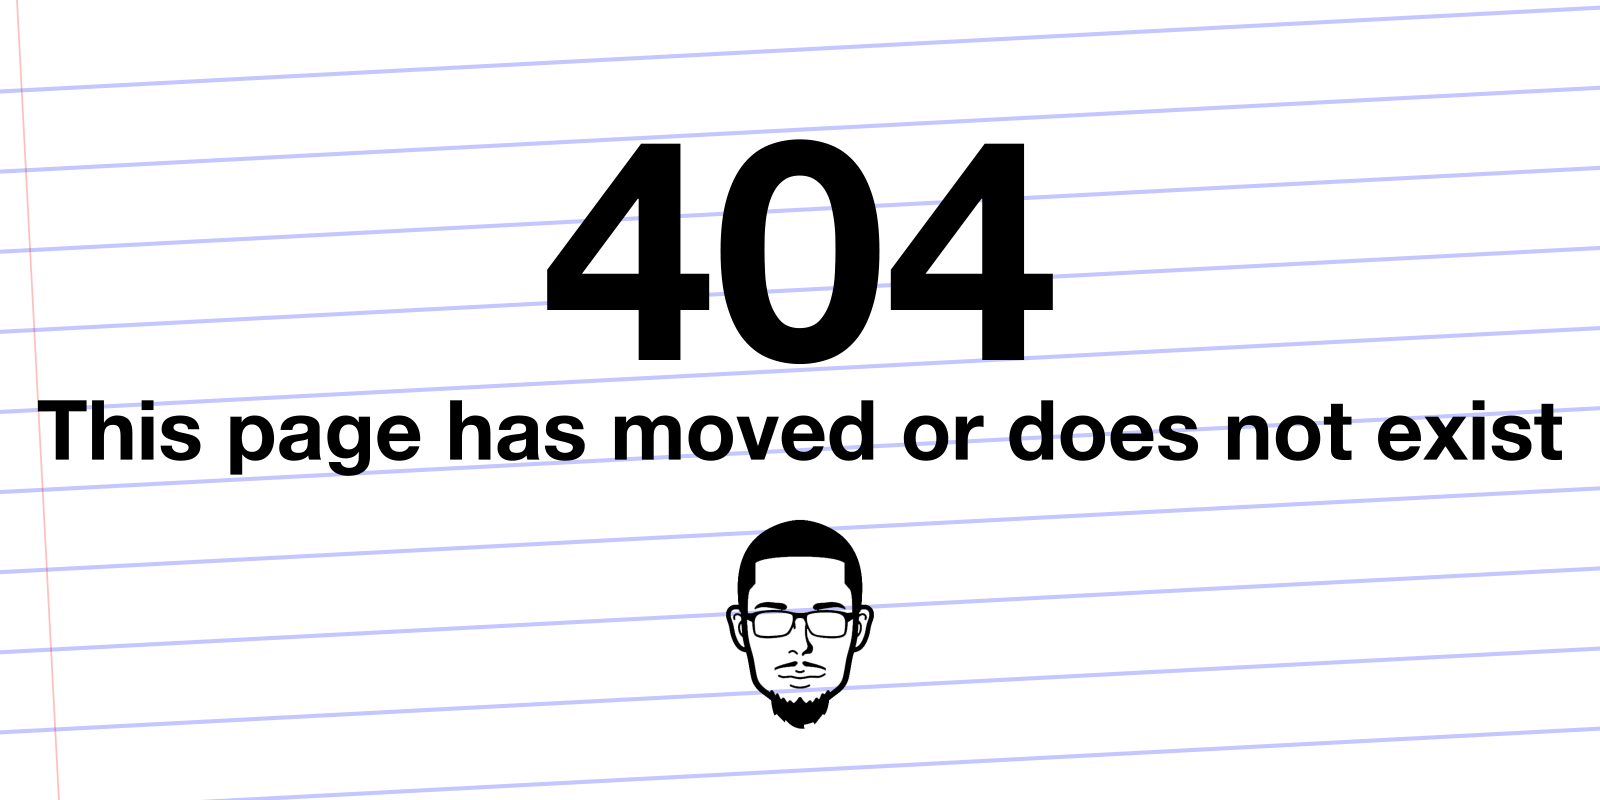
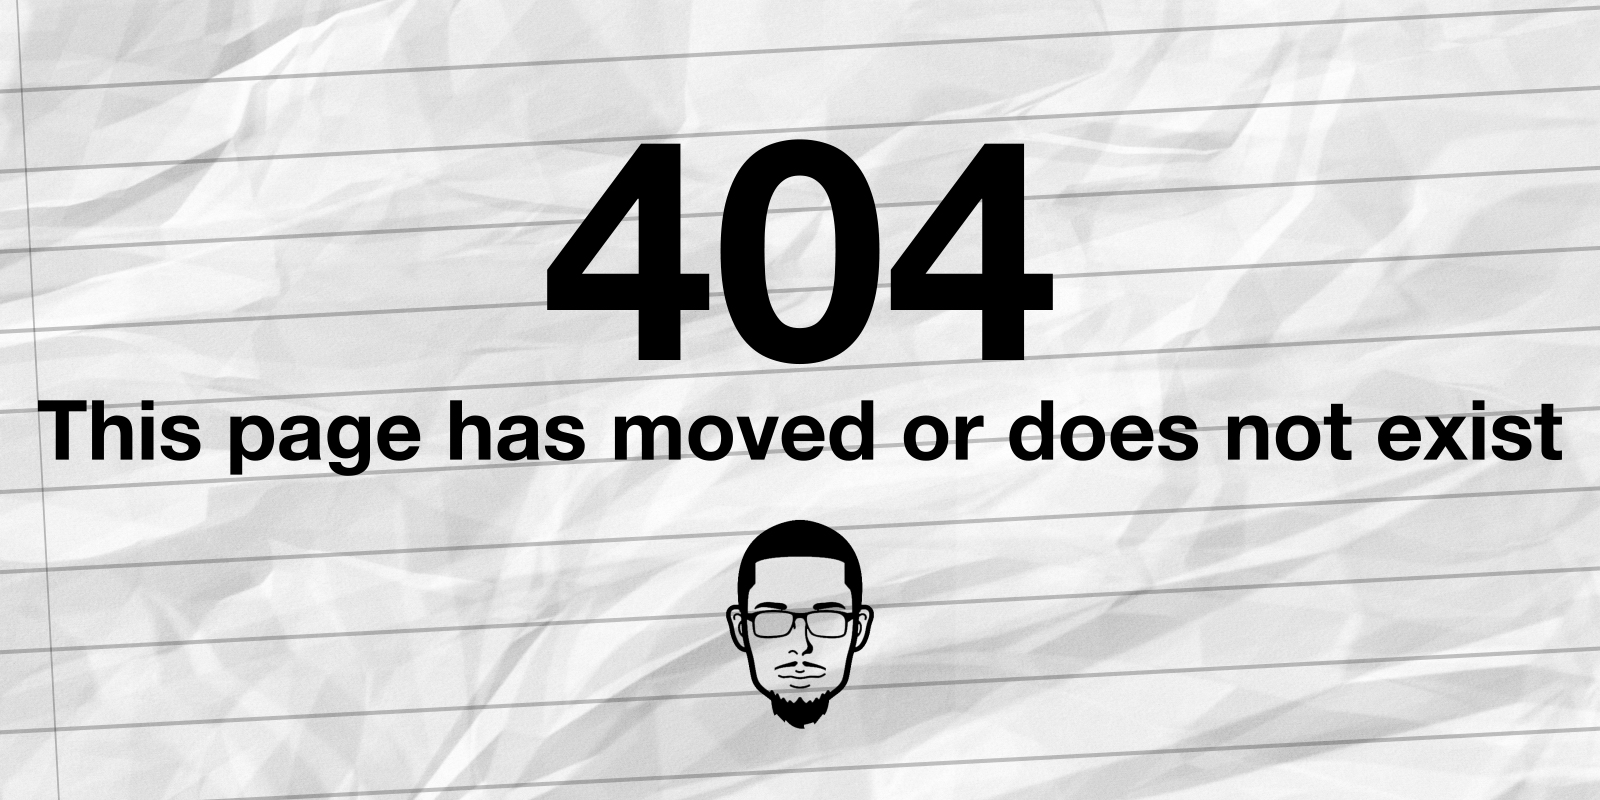
added 404 page

diff --git a/404/index.md b/404/index.md
@@ -1,7 +1,7 @@
 ---
 layout: article
-title: "Your Pixels are on Another Canvas"
-excerpt: "Page not found. Your pixels are on another canvas."
+title: 
+excerpt: 
 image:
   feature: 404.jpg
   teaser:
@@ -10,5 +10,3 @@ ads: false
 share: false
 sitemap: false
 ---
-
-Welp, the page you were trying to view has moved or does not exist. 
